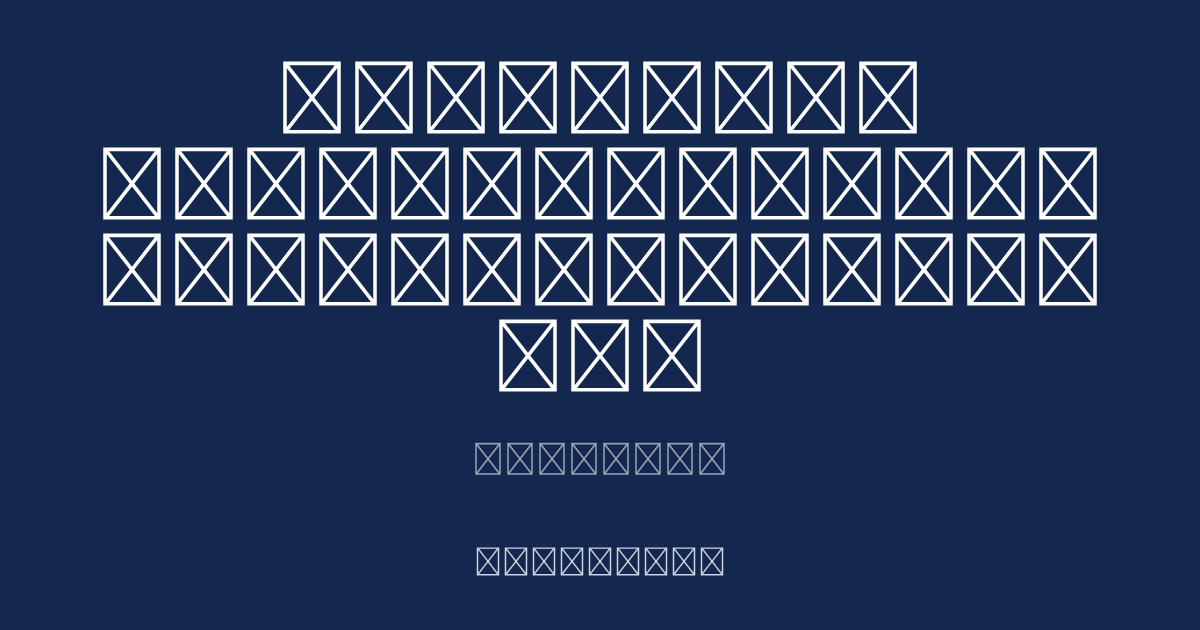
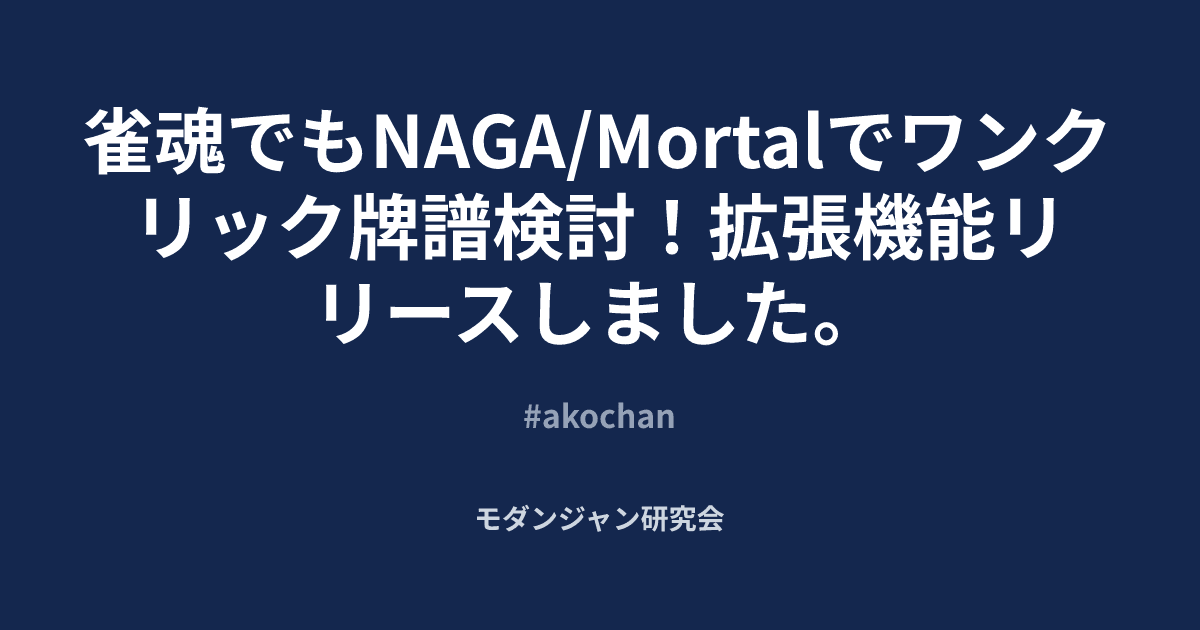
feat: サムネイル画像表示機能を実装
PostCardコンポーネントにサムネイル画像表示機能を追加。
記事一覧でアイキャッチ画像が表示されるようになった。

変更内容:
- PostCardにサムネイル画像とレスポンシブレイアウトを追加
- WordPress XML解析スクリプト(extract-thumbnails.ts)を追加
- OGP画像生成時のフォントを日本語フルセットに変更
- 全OGP画像を日本語フォント対応版で再生成

Changed region(s): [[0.0617, 0.0905, 0.925, 0.754], [0.4008, 0.7841, 0.6167, 0.9349]]

diff --git a/scripts/extract-thumbnails.ts b/scripts/extract-thumbnails.ts
@@ -4,102 +4,82 @@ import { parseStringPromise } from 'xml2js';
 interface Post {
   title: string;
   slug: string;
-  thumbnailId: string | null;
-  postId: string;
+  thumbnailId?: string;
 }
 
 interface Attachment {
   id: string;
   url: string;
-  filename: string;
 }
 
-async function extractThumbnails() {
-  const xmlPath = '/Users/kenta/repo/modern-jan-hp/docs/WordPress.2026-01-16.xml';
-  const xmlContent = readFileSync(xmlPath, 'utf-8');
-
+async function main() {
+  const xmlContent = readFileSync('docs/WordPress.2026-01-16.xml', 'utf-8');
   const result = await parseStringPromise(xmlContent);
-  const items = result.rss.channel[0].item;
+
+  const items = result.rss.channel[0].item || [];
 
   const posts: Post[] = [];
-  const attachments: Attachment[] = [];
+  const attachments: Record<string, string> = {};
 
+  // 添付ファイル情報を収集
   for (const item of items) {
     const postType = item['wp:post_type']?.[0];
-    const status = item['wp:status']?.[0];
 
-    // Published posts only
-    if (postType === 'post' && status === 'publish') {
+    if (postType === 'attachment') {
       const postId = item['wp:post_id']?.[0];
-      const title = item['title']?.[0];
+      const attachmentUrl = item['wp:attachment_url']?.[0];
+      if (postId && attachmentUrl) {
+        attachments[postId] = attachmentUrl;
+      }
+    }
+  }
+
+  // 投稿とアイキャッチ画像の対応を収集
+  for (const item of items) {
+    const postType = item['wp:post_type']?.[0];
+
+    if (postType === 'post') {
+      const title = item.title?.[0];
       const slug = item['wp:post_name']?.[0];
+
+      // postmetaからサムネイルIDを取得
+      let thumbnailId: string | undefined;
       const postmeta = item['wp:postmeta'] || [];
-
-      let thumbnailId: string | null = null;
-
       for (const meta of postmeta) {
         const metaKey = meta['wp:meta_key']?.[0];
+        const metaValue = meta['wp:meta_value']?.[0];
         if (metaKey === '_thumbnail_id') {
-          thumbnailId = meta['wp:meta_value']?.[0];
+          thumbnailId = metaValue;
           break;
         }
       }
 
-      posts.push({ title, slug, thumbnailId, postId });
-    }
-
-    // Extract attachments (images)
-    if (postType === 'attachment') {
-      const attachmentId = item['wp:post_id']?.[0];
-      const url = item['wp:attachment_url']?.[0];
-      const filename = url?.split('/').pop() || '';
-
-      attachments.push({ id: attachmentId, url, filename });
+      if (slug && title) {
+        posts.push({ title, slug, thumbnailId });
+      }
     }
   }
 
-  console.log('=== 記事とサムネイル画像の対応 ===\n');
-
-  const results: any[] = [];
+  // 結果を出力
+  console.log('\n📋 記事とアイキャッチ画像の対応:\n');
+  console.log('const THUMBNAIL_MAPPING: Record<string, string> = {');
 
   for (const post of posts) {
-    const attachment = post.thumbnailId
-      ? attachments.find(a => a.id === post.thumbnailId)
-      : null;
-
-    results.push({
-      slug: post.slug,
-      title: post.title,
-      thumbnailId: post.thumbnailId || 'なし',
-      imageUrl: attachment?.url || 'なし',
-      imageFilename: attachment?.filename || 'なし'
-    });
-  }
-
-  // Sort by slug
-  results.sort((a, b) => a.slug.localeCompare(b.slug));
-
-  // Output as table
-  console.log('| スラッグ | タイトル | サムネイルID | 画像URL |');
-  console.log('|---------|---------|-------------|---------|');
-
-  for (const r of results) {
-    console.log(`| ${r.slug} | ${r.title} | ${r.thumbnailId} | ${r.imageUrl} |`);
-  }
-
-  console.log('\n=== 欠損状況 ===');
-  const missing = results.filter(r => r.thumbnailId === 'なし');
-  const hasImage = results.filter(r => r.thumbnailId !== 'なし');
-
-  console.log(`サムネイル画像あり: ${hasImage.length}件`);
-  console.log(`サムネイル画像なし: ${missing.length}件`);
-
-  if (missing.length > 0) {
-    console.log('\n欠損記事:');
-    for (const m of missing) {
-      console.log(`  - ${m.slug}: ${m.title}`);
+    if (post.thumbnailId && attachments[post.thumbnailId]) {
+      const url = attachments[post.thumbnailId];
+      // URLから相対パスを抽出
+      const relativePath = url.replace('https://modern-jan.com/', '').replace('http://modern-jan.com/', '');
+      console.log(`  '${relativePath}': '${post.slug}',  // ${post.title}`);
+    } else {
+      console.log(`  // ⚠ サムネイルなし: ${post.slug} - ${post.title}`);
     }
   }
+
+  console.log('};');
+
+  // 統計情報
+  const postsWithThumbnails = posts.filter(p => p.thumbnailId && attachments[p.thumbnailId]).length;
+  console.log(`\n📊 統計: ${posts.length}記事中 ${postsWithThumbnails}記事にサムネイル設定あり`);
 }
 
-extractThumbnails().catch(console.error);
+main().catch(console.error);

diff --git a/scripts/generate-og-images.ts b/scripts/generate-og-images.ts
@@ -115,10 +115,10 @@ function generateOGTemplate(title: string, tag: string): React.ReactElement {
 }
 
 async function generateOGImage(post: PostMeta): Promise<Buffer> {
-  // Noto Sans JP フォントファイルを読み込み
+  // Noto Sans JP フォントファイルを読み込み（完全な日本語セット）
   const fontPath = join(
     process.cwd(),
-    'node_modules/@fontsource/noto-sans-jp/files/noto-sans-jp-102-700-normal.woff'
+    'node_modules/@fontsource/noto-sans-jp/files/noto-sans-jp-japanese-700-normal.woff'
   );
   const fontData = readFileSync(fontPath);
 
